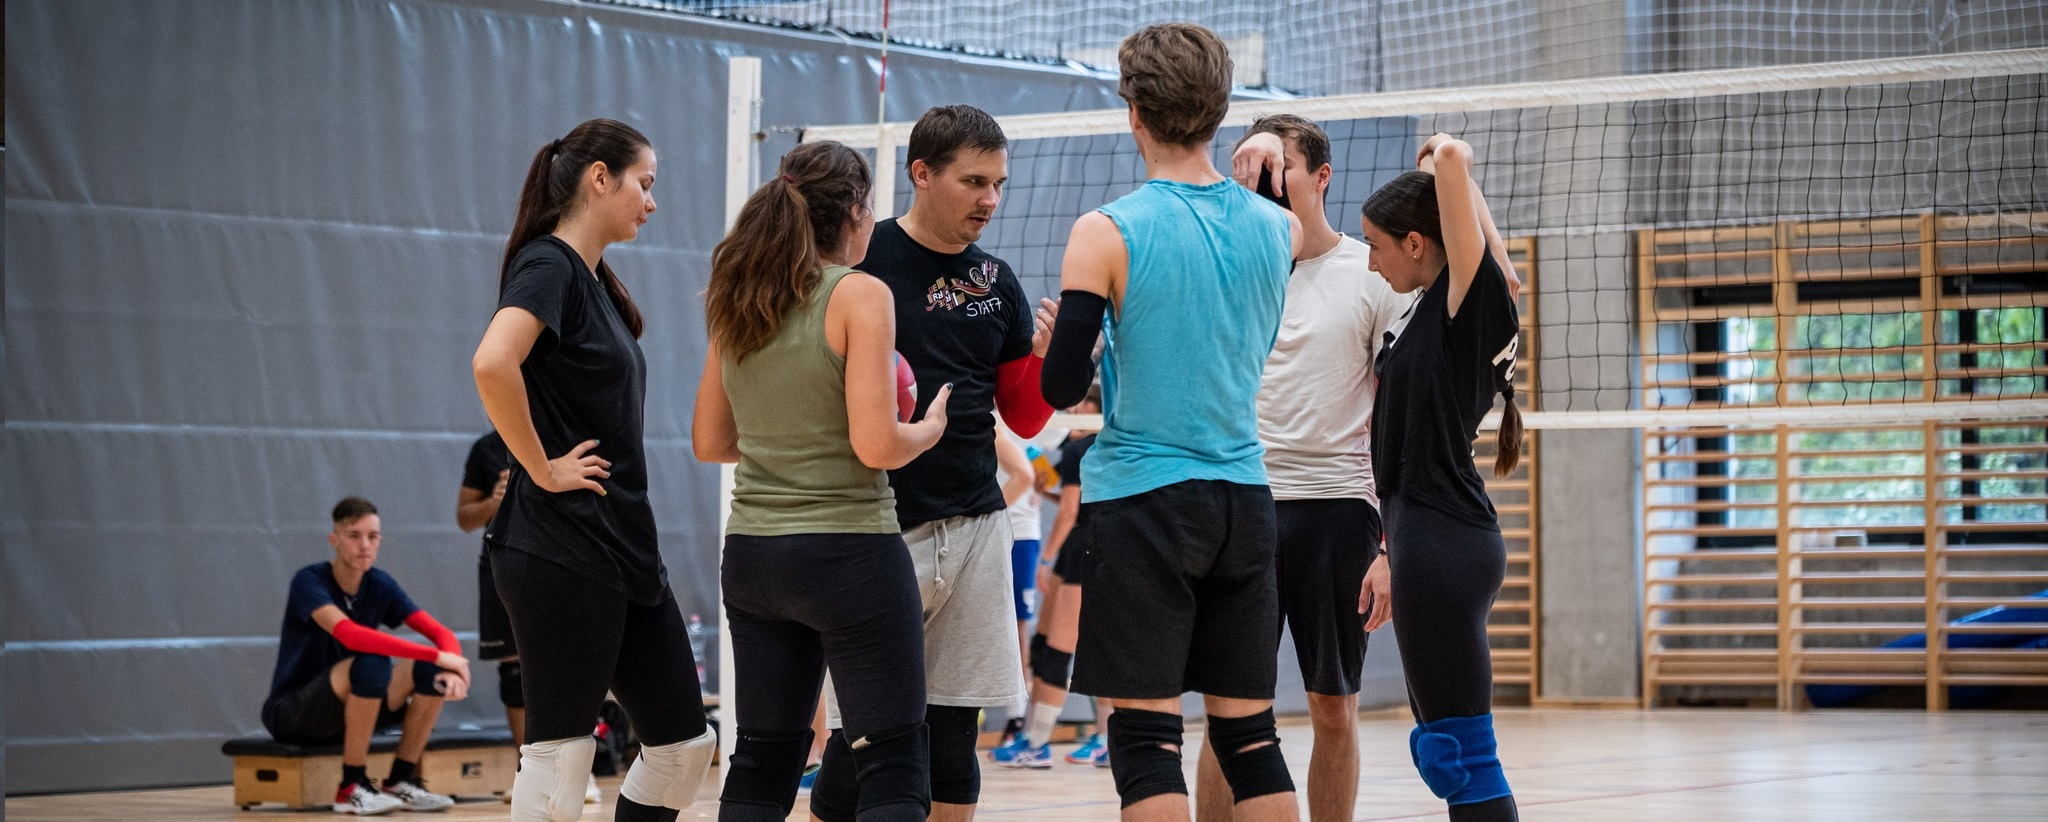
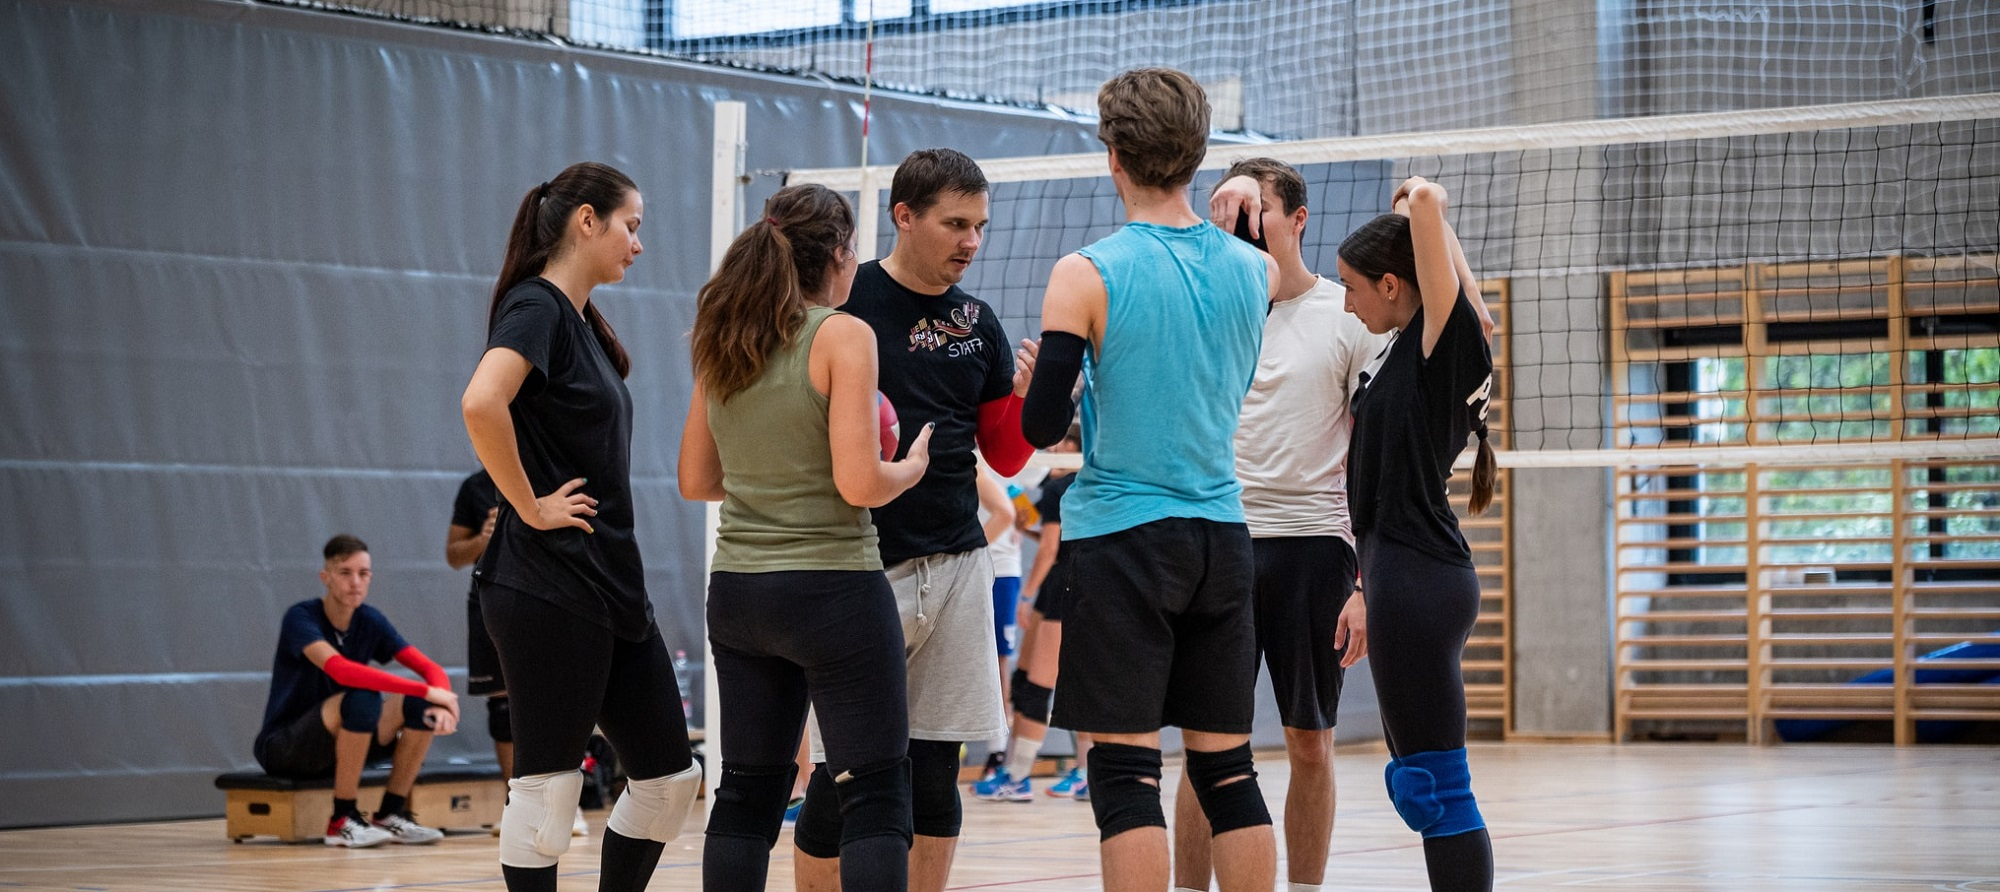
team page picture

diff --git a/src/app/pages/team-page/team-page.component.scss b/src/app/pages/team-page/team-page.component.scss
@@ -3,40 +3,49 @@
 .team-page-content {
   display: flex;
   flex-direction: column;
-  h1 {
+
+  .picture {
     display: flex;
-    align-items: center;
-    flex-direction: column;
-    font-weight: 500;
+    flex-direction: row;
+    font-weight: bold;
+    justify-content: center;
     background-color: var(--bgLightgold);
-    padding: 20px;
-    margin: 0px;
-    p {
-      color: var(--red);
-      font-size: small;
-      text-align: justify;
-      line-height: 18px;
+    h1 {
+      display: flex;
+      align-items: center;
+      flex-direction: column;
+      font-weight: 600;
+      padding-top: 20px;
+      width: 100%;
+      float: center;
+      position: absolute;
+      z-index: 1000;
+      background-color: var(--lighterGoldOpacity);
+      p {
+        color: var(--red);
+        font-size: small;
+        text-align: justify;
+        line-height: 18px;
+      }
+      p:hover {
+        color: var(--black);
+      }
     }
-    p:hover {
-      color: var(--black);
+    img {
+      width: 100%;
+      max-width: 1100px;
     }
   }
 
-  .picture {
-    img {
-      width: 100%;
-    }
-  }
-  
   h2 {
     padding-left: 20px;
     padding-top: 20px;
   }
-  
+
   table {
     padding: 5px;
   }
-  
+
   .members {
     background-color: var(--bgWhite);
     display: flex;
@@ -69,7 +78,7 @@
     .edit {
       background-color: var(--gold);
     }
-  
+
     button {
       margin-right: 5px;
     }
@@ -77,7 +86,7 @@
     padding-left: 30px;
     padding-right: 40px;
   }
-  
+
   .addPlayerForm {
     display: flex;
     flex-direction: column;
@@ -85,22 +94,18 @@
     padding-left: 20px;
     padding-bottom: 30px;
     padding-right: 30px;
-  
+
     .mat-form-field-appearance-fill .mat-form-field-flex {
       background-color: rgba(0, 255, 255, 0.5);
     }
-  
+
     .bday {
       padding-bottom: 10px;
     }
-  
+
     button {
       background-color: var(--gold);
       color: var(--bgWhite);
     }
   }
-  
-
-  
 }
-

diff --git a/src/app/pages/team-page/team-page.component.html b/src/app/pages/team-page/team-page.component.html
@@ -1,10 +1,11 @@
 <div class="team-page-content">
-  <h1>
-    <!-- <img mat-card-image src="{{ team?.picture }}" /> -->
-    Team: {{ team?.name }}
-    <p>{{ team?.description }}</p>
-  </h1>
-  <div class="picture"><img mat-card-image src="{{ team?.picture }}" /></div>
+  <div class="picture">
+    <h1>
+       Team: {{ team?.name }}
+      <p>{{ team?.description }}</p>
+    </h1>
+    <img mat-card-image src="{{ team?.picture }}" />
+  </div>
   <div class="members">
     <div class="team-page-table">
       <h2>Members:</h2>
@@ -44,7 +45,7 @@
             </button>
           </td>
         </ng-container>
-  
+
         <tr mat-header-row *matHeaderRowDef="displayedColumns"></tr>
         <tr mat-row *matRowDef="let row; columns: displayedColumns"></tr>
       </table>
@@ -132,7 +133,7 @@
           <mat-option value="Other">Other</mat-option>
         </mat-select>
       </mat-form-field>
-  
+
       <button mat-raised-button>
         <mat-icon>add</mat-icon>
         Add member
@@ -143,7 +144,11 @@
   <div></div>
   <div class="training-content">
     <h2>Trainings:</h2>
-    <table mat-table [dataSource]="dataSourceTrainings" class="mat-elevation-z8">
+    <table
+      mat-table
+      [dataSource]="dataSourceTrainings"
+      class="mat-elevation-z8"
+    >
       <ng-container matColumnDef="position">
         <th mat-header-cell *matHeaderCellDef>No.</th>
         <td mat-cell *matCellDef="let training; let i = index">{{ i + 1 }}</td>
@@ -160,10 +165,9 @@
         <th mat-header-cell *matHeaderCellDef>Description</th>
         <td mat-cell *matCellDef="let training">{{ training.description }}</td>
       </ng-container>
-  
+
       <tr mat-header-row *matHeaderRowDef="displayedColumnsTrainings"></tr>
       <tr mat-row *matRowDef="let row; columns: displayedColumnsTrainings"></tr>
     </table>
   </div>
-  
 </div>

diff --git a/src/styles.scss b/src/styles.scss
@@ -17,4 +17,5 @@ body {
   --gold: rgb(189, 151, 58);
   --bgLightgold: rgb(224, 202, 155);
   --lighterGold: rgb(243, 229, 198);
+  --lighterGoldOpacity: rgb(243, 229, 198, 0.5);
 }
